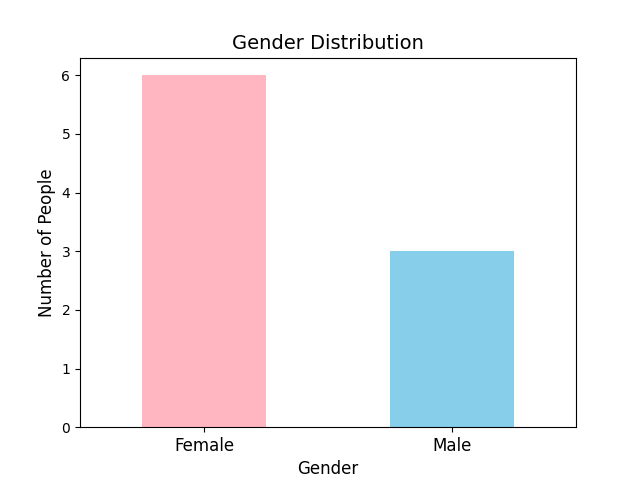
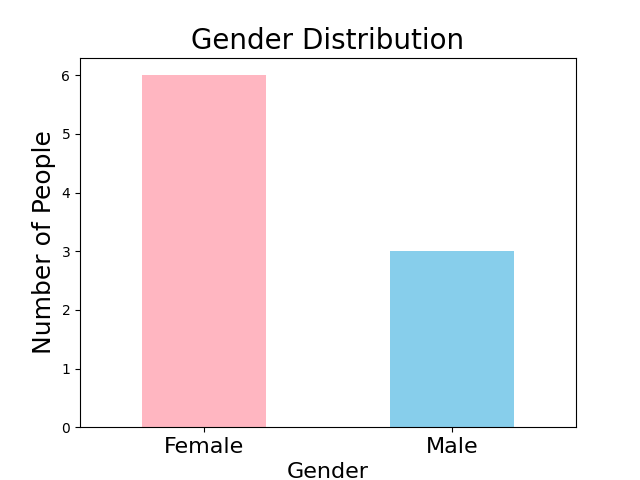
fontSize up

diff --git a/dataAnalysis.py b/dataAnalysis.py
@@ -188,7 +188,7 @@ def preprocess_data(api_url, user_data_path, store_favorite_path, store_info_pat
         # 병합
         merged_api_data = pd.merge(api_data, store_info[['id', 'name']], on='name', how='left')
 
-        print(merged_api_data[['name', 'id']])  # 이름과 id를 확인해 봄
+        #print(merged_api_data[['name', 'id']])  # 이름과 id를 확인해 봄
         return user_data, store_favorite, merged_api_data
     except Exception as e:
         print(f"데이터 처리 오류: {e}")
@@ -263,8 +263,8 @@ def generate_age_distribution_image(output_path):
         store_info = pd.read_csv(store_info_path)
 
         # 카페 이름 확인
-        print(store_info[['name']].head())
-        print(df_api[['name']].head())
+        #print(store_info[['name']].head())
+        #print(df_api[['name']].head())
 
         # 데이터 병합 및 정제
         user_age_data = pd.merge(
@@ -277,7 +277,7 @@ def generate_age_distribution_image(output_path):
 
         # 연령대별 카페별 방문자 수 집계
         user_age_data['age_group'] = user_age_data['age_group'].astype(str)  # 문자열로 변환
-        print(user_age_data.head())
+        #print(user_age_data.head())
         age_distribution = user_age_data.groupby(['store_id', 'age_group']).size().unstack(fill_value=0)
 
         # API 데이터와 Store 정보 병합
@@ -383,7 +383,7 @@ def generate_busiest_and_least_busy_times():
             color='black',
             bbox=dict(facecolor='none', edgecolor='none', alpha=0.7)  # 텍스트 배경 추가
         )
-    plt.title('Busiest and Calmest Time Periods by Day of the Week', fontsize=18)
+    plt.title('Busiest and Calmest Time Periods by Day of the Week', fontsize=22)
     plt.xticks(fontsize=18)
     plt.xlabel('Week', fontsize=16)
     plt.ylabel('Congestion', fontsize=16)
@@ -445,37 +445,53 @@ def visualize_favorites_by_store():
         # 성별 분포
         gender_counts = matched_survey_data['gender'].value_counts()
         gender_counts.plot(kind='bar', color=['lightpink', 'skyblue'], rot=0, title='Gender Distribution')
-        plt.title('Gender Distribution', fontsize=14)  # 제목 폰트 크기 설정
-        plt.xlabel('Gender', fontsize=12)  # x축 폰트 크기 설정
-        plt.ylabel('Number of People', fontsize=12)  # y축 폰트 크기 설정
-        plt.xticks(ticks=range(len(gender_counts)), labels=['Female', 'Male'], fontsize = 12)
+        plt.title('Gender Distribution', fontsize=20)  # 제목 폰트 크기 설정
+        plt.xlabel('Gender', fontsize=16)  # x축 폰트 크기 설정
+        plt.ylabel('Number of People', fontsize=18)  # y축 폰트 크기 설정
+        plt.xticks(ticks=range(len(gender_counts)), labels=['Female', 'Male'], fontsize = 16)
         gender_path = os.path.join(STATIC_FOLDER, 'gender_distribution_target_store.png')
         plt.savefig(gender_path)
         plt.close()
         
         # 연령대별 분포
         age_bins = [0, 19, 29, 39, 49, 59, 120]
-        age_labels = ['Under 20s', '20s', '30s', '40s', '50s', '60s and Above']
+        age_labels = ['Under 20s', '20s', '30s', '40s', '50s', '60s Above']
         matched_survey_data['age_group'] = pd.cut(matched_survey_data['age'], bins=age_bins, labels=age_labels, right=False)
         age_counts = matched_survey_data['age_group'].value_counts().sort_index()
-        age_counts.plot(kind='bar', color='#e38a6d', rot=0, title='Age Distribution')
+
+        # 플롯 생성
+        fig, ax = plt.subplots(figsize=(8, 6))  # figsize로 그림 크기 조정 가능
+        bar_width = 0.5  # 막대 너비
+        bar_positions = range(len(age_counts))
+
+        ax.bar(bar_positions, age_counts, color='#e38a6d', width=bar_width)
+        plt.xticks(bar_positions)
+        ax.set_xticklabels(age_counts.index, fontsize =16)
         plt.rc('font', family='AppleGothic')
-        plt.xticks(fontsize=12)
-        plt.title('Age Distribution', fontsize=14)  # 제목 폰트 크기 설정
-        plt.xlabel('Age', fontsize=12)  # x축 폰트 크기 설정
-        plt.ylabel('Number of People', fontsize=12)  # y축 폰트 크기 설정
+        plt.title('Age Distribution', fontsize=24)  # 제목 폰트 크기 설정
+        plt.xlabel('Age', fontsize=16)  # x축 폰트 크기 설정
+        plt.ylabel('Number of People', fontsize=16)  # y축 폰트 크기 설정
         age_path = os.path.join(STATIC_FOLDER, 'age_distribution_target_store.png')
         plt.savefig(age_path)
         plt.close()
         
         # 선호 메뉴 분포
         favorite_menu_counts = matched_survey_data['favorite_menu'].value_counts()
-        favorite_menu_counts.plot(kind='bar', color='#8a6857', rot=45, title='Favorite Menu Distribution')
+        # 플롯 생성
+        fig, ax = plt.subplots(figsize=(8, 6))  # 플롯 크기 설정
+        bar_width = 0.4  # 막대 너비
+        bar_positions = range(len(favorite_menu_counts))
+
+        ax.bar(bar_positions, favorite_menu_counts, color='#8a6857', width=bar_width)
+
+        # 막대 레이블 및 제목 설정
+        ax.set_xticks(bar_positions)
+        ax.set_xticklabels(favorite_menu_counts.index, fontsize=18)  # 글자 회전 조정
+        ax.set_title('Favorite Menu Distribution', fontsize=20)  # 제목 폰트 크기 설정
+        ax.set_xlabel('Preference', fontsize=16)  # x축 폰트 크기 설정
+        ax.set_ylabel('Number of People', fontsize=18)  # y축 폰트 크기 설정
+
         menu_path = os.path.join(STATIC_FOLDER, 'favorite_menu_distribution_target_store.png')
-        plt.xticks(fontsize=12)
-        plt.title('Favorite Menu Distribution', fontsize=14)  # 제목 폰트 크기 설정
-        plt.xlabel('Preference', fontsize=12)  # x축 폰트 크기 설정
-        plt.ylabel('Number of People', fontsize=12)  # y축 폰트 크기 설정
         plt.savefig(menu_path, bbox_inches='tight')
         plt.close()
         
